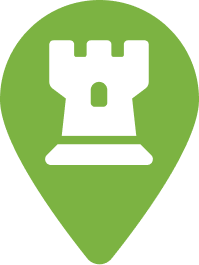
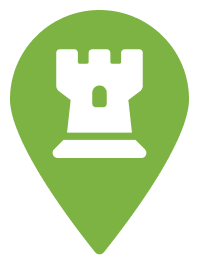
adding different pins on the map based on the category of the item

Changed region(s): [[0.0, 0.0, 1.0, 1.0], [0.2111, 0.1509, 0.7839, 0.634], [0.4523, 0.3019, 0.5427, 0.4226]]

diff --git a/public/assets/js/maps.js b/public/assets/js/maps.js
@@ -1,105 +1,153 @@
 function initMap() {
-    const map = new google.maps.Map(document.getElementById('map'), {
-        zoom: 6,
-        center: { lat: 46.71109, lng: 1.7191036 },
-    });
+  const map = new google.maps.Map(document.getElementById("map"), {
+    zoom: 6,
+    center: { lat: 46.71109, lng: 1.7191036 },
+  });
 
-    setMarkers(map)
-    setUserPosition(map)
+  setMarkers(map);
+  setUserPosition(map);
 }
 
 function setMarkers(map) {
-    // Adds markers to the map.
-    // Marker sizes are expressed as a Size of X,Y where the origin of the image
-    // (0,0) is located in the top left of the image.
-    // Origins, anchor positions and coordinates of the marker increase in the X
-    // direction to the right and in the Y direction down.
-    const image = {
-        url: 'https://developers.google.com/maps/documentation/javascript/examples/full/images/beachflag.png',
-        // This marker is 20 pixels wide by 32 pixels high.
-        size: new google.maps.Size(20, 32),
-        // The origin for this image is (0, 0).
-        origin: new google.maps.Point(0, 0),
-        // The anchor for this image is the base of the flagpole at (0, 32).
-        anchor: new google.maps.Point(0, 32),
-    };
-    // Shapes define the clickable region of the icon. The type defines an HTML
-    // <area> element 'poly' which traces out a polygon as a series of X,Y points.
-    // The final coordinate closes the poly by connecting to the first coordinate.
-    const shape = {
-        coords: [1, 1, 1, 20, 18, 20, 18, 1],
-        type: "poly",
-    };
+  const icon = {
+    url: pinLocationPath + "pin-",
+    scaledSize: new google.maps.Size(20, 27),
+    origin: new google.maps.Point(0, 0),
+    anchor: new google.maps.Point(10, 27),
+    zIndex: 2,
+  };
+  const shape = {
+    coords: [10, 0, 17, 3, 20, 9, 10, 27, 0, 9, 3, 3],
+    type: "poly",
+  };
 
-    const items = JSON.parse(locations)
-    for(let key in items) {
-        const marker = new google.maps.Marker({
-            position: { lat: Number.parseFloat(items[key].loc.lat), lng: Number.parseFloat(items[key].loc.lon) },
-            map,
-            icon: image,
-            shape: shape,
-            title: items[key].loc.name,
-            type: items[key].loc.type,
-        })
+  const pins = {};
+  pins["default"] = { ...icon };
+  pins["default"].url = pins["default"].url + "default.png";
+  pins["default"].zIndex = 1;
 
-        marker.addListener('click', () => {
-            //map.setZoom(8)
-            //map.setCenter(marker.getPosition())
+  const items = JSON.parse(locations);
+  for (let key in items) {
+    let current = pins["default"];
+    if (items[key].loc.type) {
+      if (!pins[items[key].loc.type.icon]) {
+        pins[items[key].loc.type.icon] = { ...icon };
+        pins[items[key].loc.type.icon].url =
+          pins[items[key].loc.type.icon].url +
+          items[key].loc.type.icon +
+          ".png";
+      }
 
-            if(items[key].loc.disabled == 1){ 
-                $('.map-overlay-img').attr('id', 'disabled')
-            }else{
-                $('.map-overlay-img').removeAttr('id')
-            }
-
-            $('.pin-fav-add').removeClass('show')
-            $('#map-overlay').addClass('show')
-            if (items[key].loc.image === null){
-                $('#map-overlay .map-overlay-img').css('backgroundImage', 'url("/assets/default.png")')
-            }else{
-                $('#map-overlay .map-overlay-img').css('backgroundImage', 'url('+items[key].loc.image+')')
-            }
-            if(items[key].loc.name) $('#map-overlay .map-overlay-title').text(items[key].loc.name)
-            $('#map-overlay .map-overlay-type .pin-type-text').text(items[key].loc.type !== null ? items[key].loc.type.name : 'other')
-            $('#map-overlay .map-overlay-type .pin-type-icon').html(items[key].loc.type !== null ? '<i class="fa-solid ' + items[key].loc.type.icon + '"></i>' : '<i class="fa-solid fa-map-pin"></i>')
-
-            $('.pin-fav-wrapper').attr('data-id', items[key].loc.id)
-            $('.pin-fav-wrapper').attr('data-fids', items[key].fids)
-
-            let mapsUrl = $('.map-overlay-action .pin-map').data('url') + items[key].loc.lat + ',' + items[key].loc.lon
-            $('.map-overlay-action .pin-map').attr('href', mapsUrl)
-            let editUrl = $('.map-overlay-action .pin-conf').data('url') + items[key].loc.id
-            $('.map-overlay-action .pin-conf').attr('href', editUrl)
-            let wazeUrl = $('.map-overlay-action .pin-waze').data('url') + items[key].loc.lat + ',' + items[key].loc.lon + '&navigate=yes&zoom=17'
-            $('.map-overlay-action .pin-waze').attr('href', wazeUrl)
-
-            if(items[key].fids) $('#map-overlay').find('.pin-fav i').addClass('fa-solid').removeClass('fa-regular')
-            else $('#map-overlay').find('.pin-fav i').addClass('fa-regular').removeClass('fa-solid')
-        })
+      current = pins[items[key].loc.type.icon];
     }
+
+    const marker = new google.maps.Marker({
+      position: {
+        lat: Number.parseFloat(items[key].loc.lat),
+        lng: Number.parseFloat(items[key].loc.lon),
+      },
+      map,
+      icon: current,
+      shape: shape,
+      title: items[key].loc.name,
+      type: items[key].loc.type,
+      zIndex: current.zIndex,
+    });
+
+    marker.addListener("click", () => {
+      //map.setZoom(8)
+      //map.setCenter(marker.getPosition())
+
+      if (items[key].loc.disabled == 1) {
+        $(".map-overlay-img").attr("id", "disabled");
+      } else {
+        $(".map-overlay-img").removeAttr("id");
+      }
+
+      $(".pin-fav-add").removeClass("show");
+      $("#map-overlay").addClass("show");
+      if (items[key].loc.image === null) {
+        $("#map-overlay .map-overlay-img").css(
+          "backgroundImage",
+          'url("/assets/default.png")'
+        );
+      } else {
+        $("#map-overlay .map-overlay-img").css(
+          "backgroundImage",
+          "url(" + items[key].loc.image + ")"
+        );
+      }
+      if (items[key].loc.name)
+        $("#map-overlay .map-overlay-title").text(items[key].loc.name);
+      $("#map-overlay .map-overlay-type .pin-type-text").text(
+        items[key].loc.type !== null ? items[key].loc.type.name : "other"
+      );
+      $("#map-overlay .map-overlay-type .pin-type-icon").html(
+        items[key].loc.type !== null
+          ? '<i class="fa-solid ' + items[key].loc.type.icon + '"></i>'
+          : '<i class="fa-solid fa-map-pin"></i>'
+      );
+
+      $(".pin-fav-wrapper").attr("data-id", items[key].loc.id);
+      $(".pin-fav-wrapper").attr("data-fids", items[key].fids);
+
+      let mapsUrl =
+        $(".map-overlay-action .pin-map").data("url") +
+        items[key].loc.lat +
+        "," +
+        items[key].loc.lon;
+      $(".map-overlay-action .pin-map").attr("href", mapsUrl);
+      let editUrl =
+        $(".map-overlay-action .pin-conf").data("url") + items[key].loc.id;
+      $(".map-overlay-action .pin-conf").attr("href", editUrl);
+      let wazeUrl =
+        $(".map-overlay-action .pin-waze").data("url") +
+        items[key].loc.lat +
+        "," +
+        items[key].loc.lon +
+        "&navigate=yes&zoom=17";
+      $(".map-overlay-action .pin-waze").attr("href", wazeUrl);
+
+      if (items[key].fids)
+        $("#map-overlay")
+          .find(".pin-fav i")
+          .addClass("fa-solid")
+          .removeClass("fa-regular");
+      else
+        $("#map-overlay")
+          .find(".pin-fav i")
+          .addClass("fa-regular")
+          .removeClass("fa-solid");
+    });
+  }
 }
 
 function setUserPosition(map) {
-    navigator.geolocation.getCurrentPosition(position => {
-        const marker = new google.maps.Marker({
-            position: { lat: position.coords.latitude, lng: position.coords.longitude },
-            map
-        })
-    }, error => {
-        alert(error.message)
-    })
+  navigator.geolocation.getCurrentPosition(
+    (position) => {
+      const marker = new google.maps.Marker({
+        position: {
+          lat: position.coords.latitude,
+          lng: position.coords.longitude,
+        },
+        map,
+      });
+    },
+    (error) => {
+      alert(error.message);
+    }
+  );
 }
 
 window.initMap = initMap;
 
-
 $(() => {
-    $('.map-overlay-close').on('click', e => {
-        e.preventDefault()
-        $('#map-overlay').removeClass('show')
-    })
+  $(".map-overlay-close").on("click", (e) => {
+    e.preventDefault();
+    $("#map-overlay").removeClass("show");
+  });
 
-    $('#map-wrapper').on('click', '.gm-fullscreen-control', function() {
-        $('#map-overlay').appendTo($('#map').find('div')[0])
-    })
-})
+  $("#map-wrapper").on("click", ".gm-fullscreen-control", function () {
+    $("#map-overlay").appendTo($("#map").find("div")[0]);
+  });
+});

diff --git a/src/Controller/MapController.php b/src/Controller/MapController.php
@@ -43,6 +43,7 @@ class MapController extends AppController
 
         return $this->render('map/index.html.twig', [
             'maps_api_key' => $_ENV['MAPS_API_KEY'],
+            'pin_location_path' => $_ENV['PIN_LOCATION_PATH'],
             'locations' => $locations
         ]);
     }
